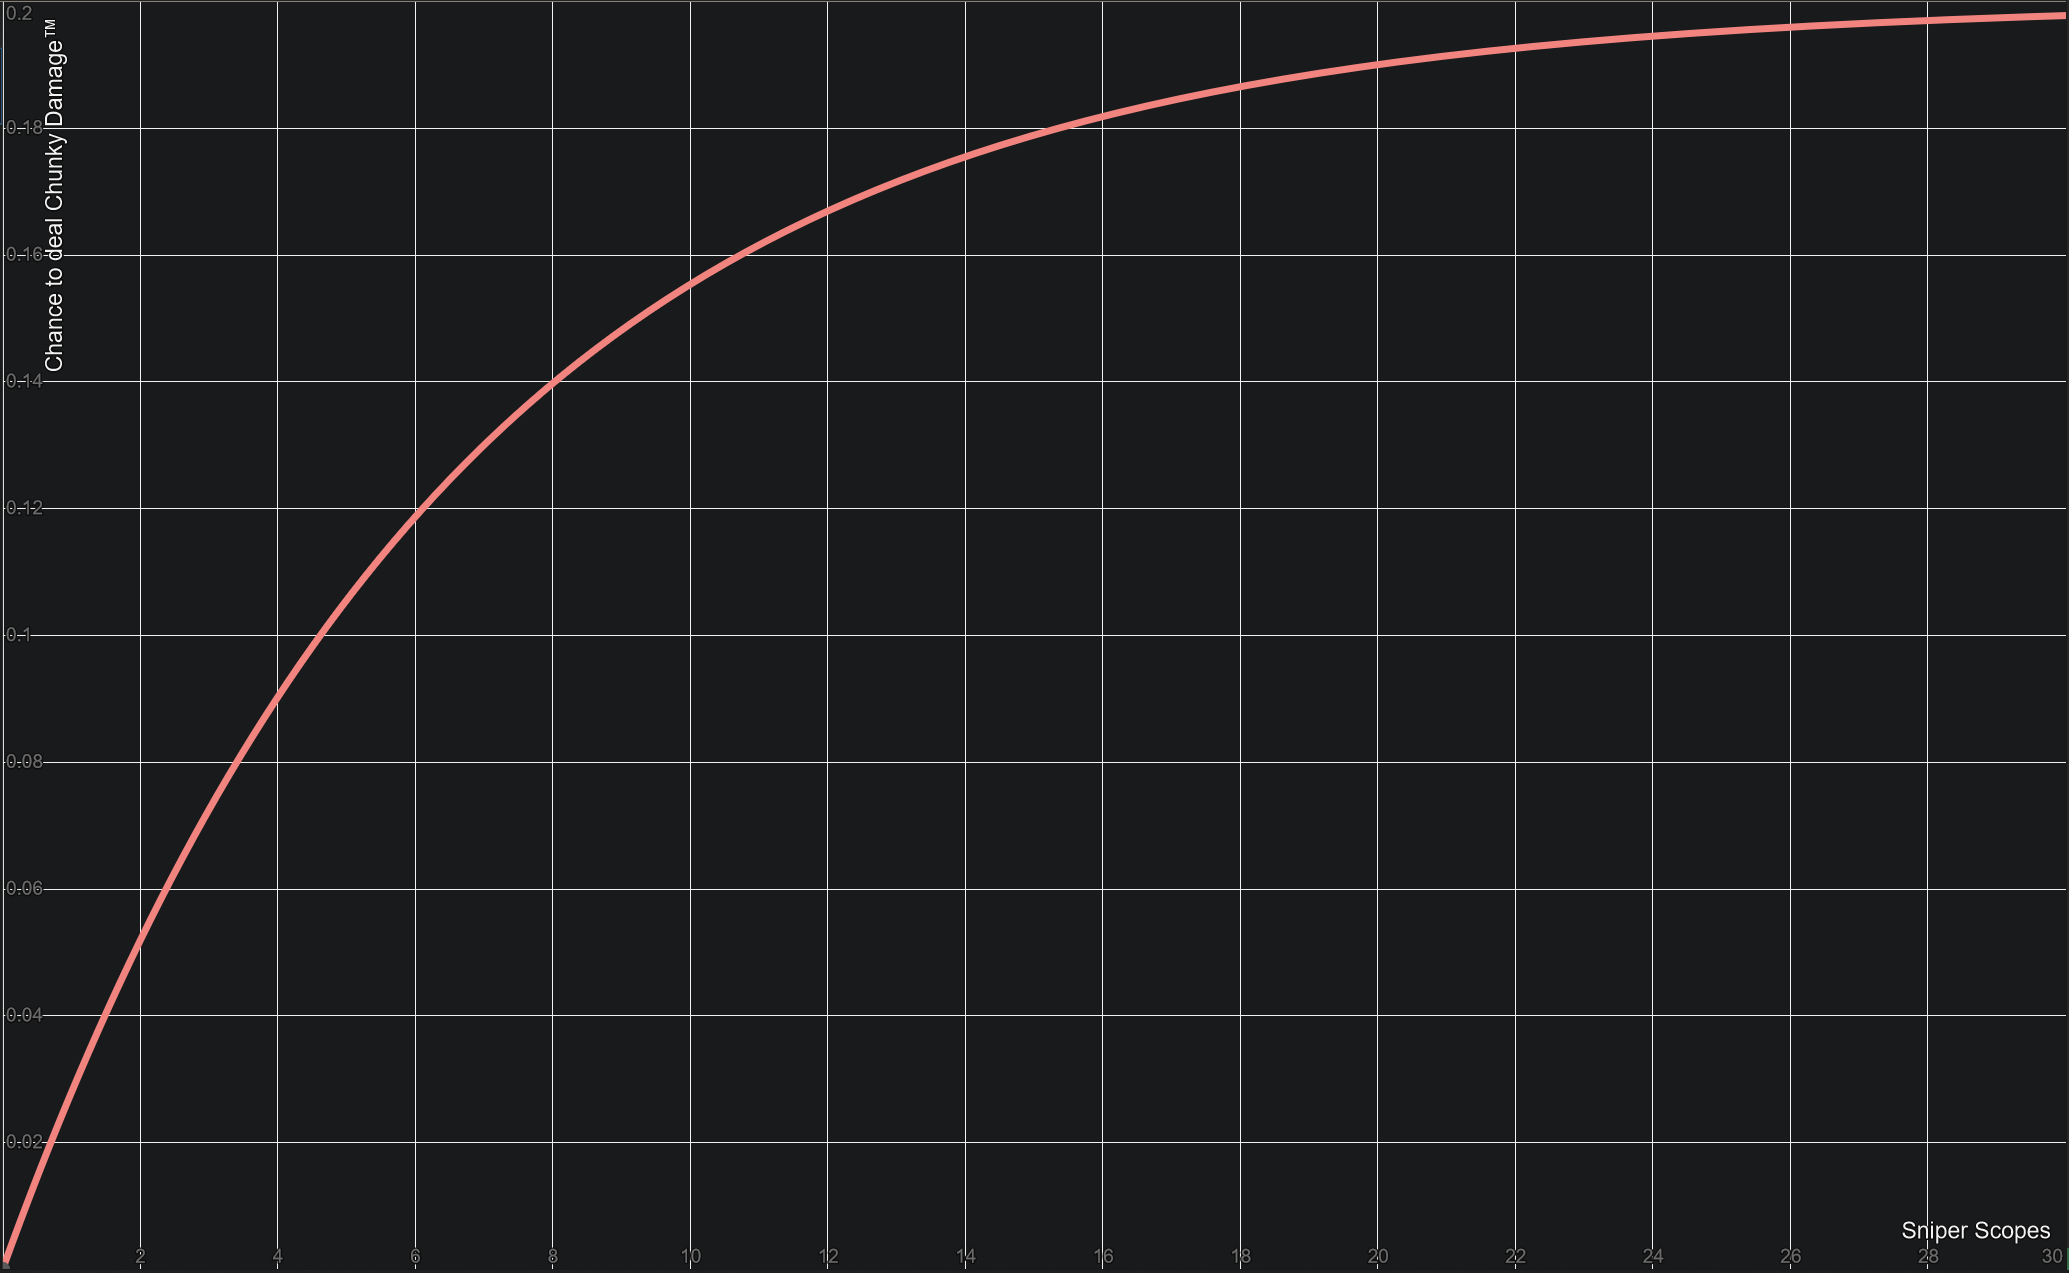
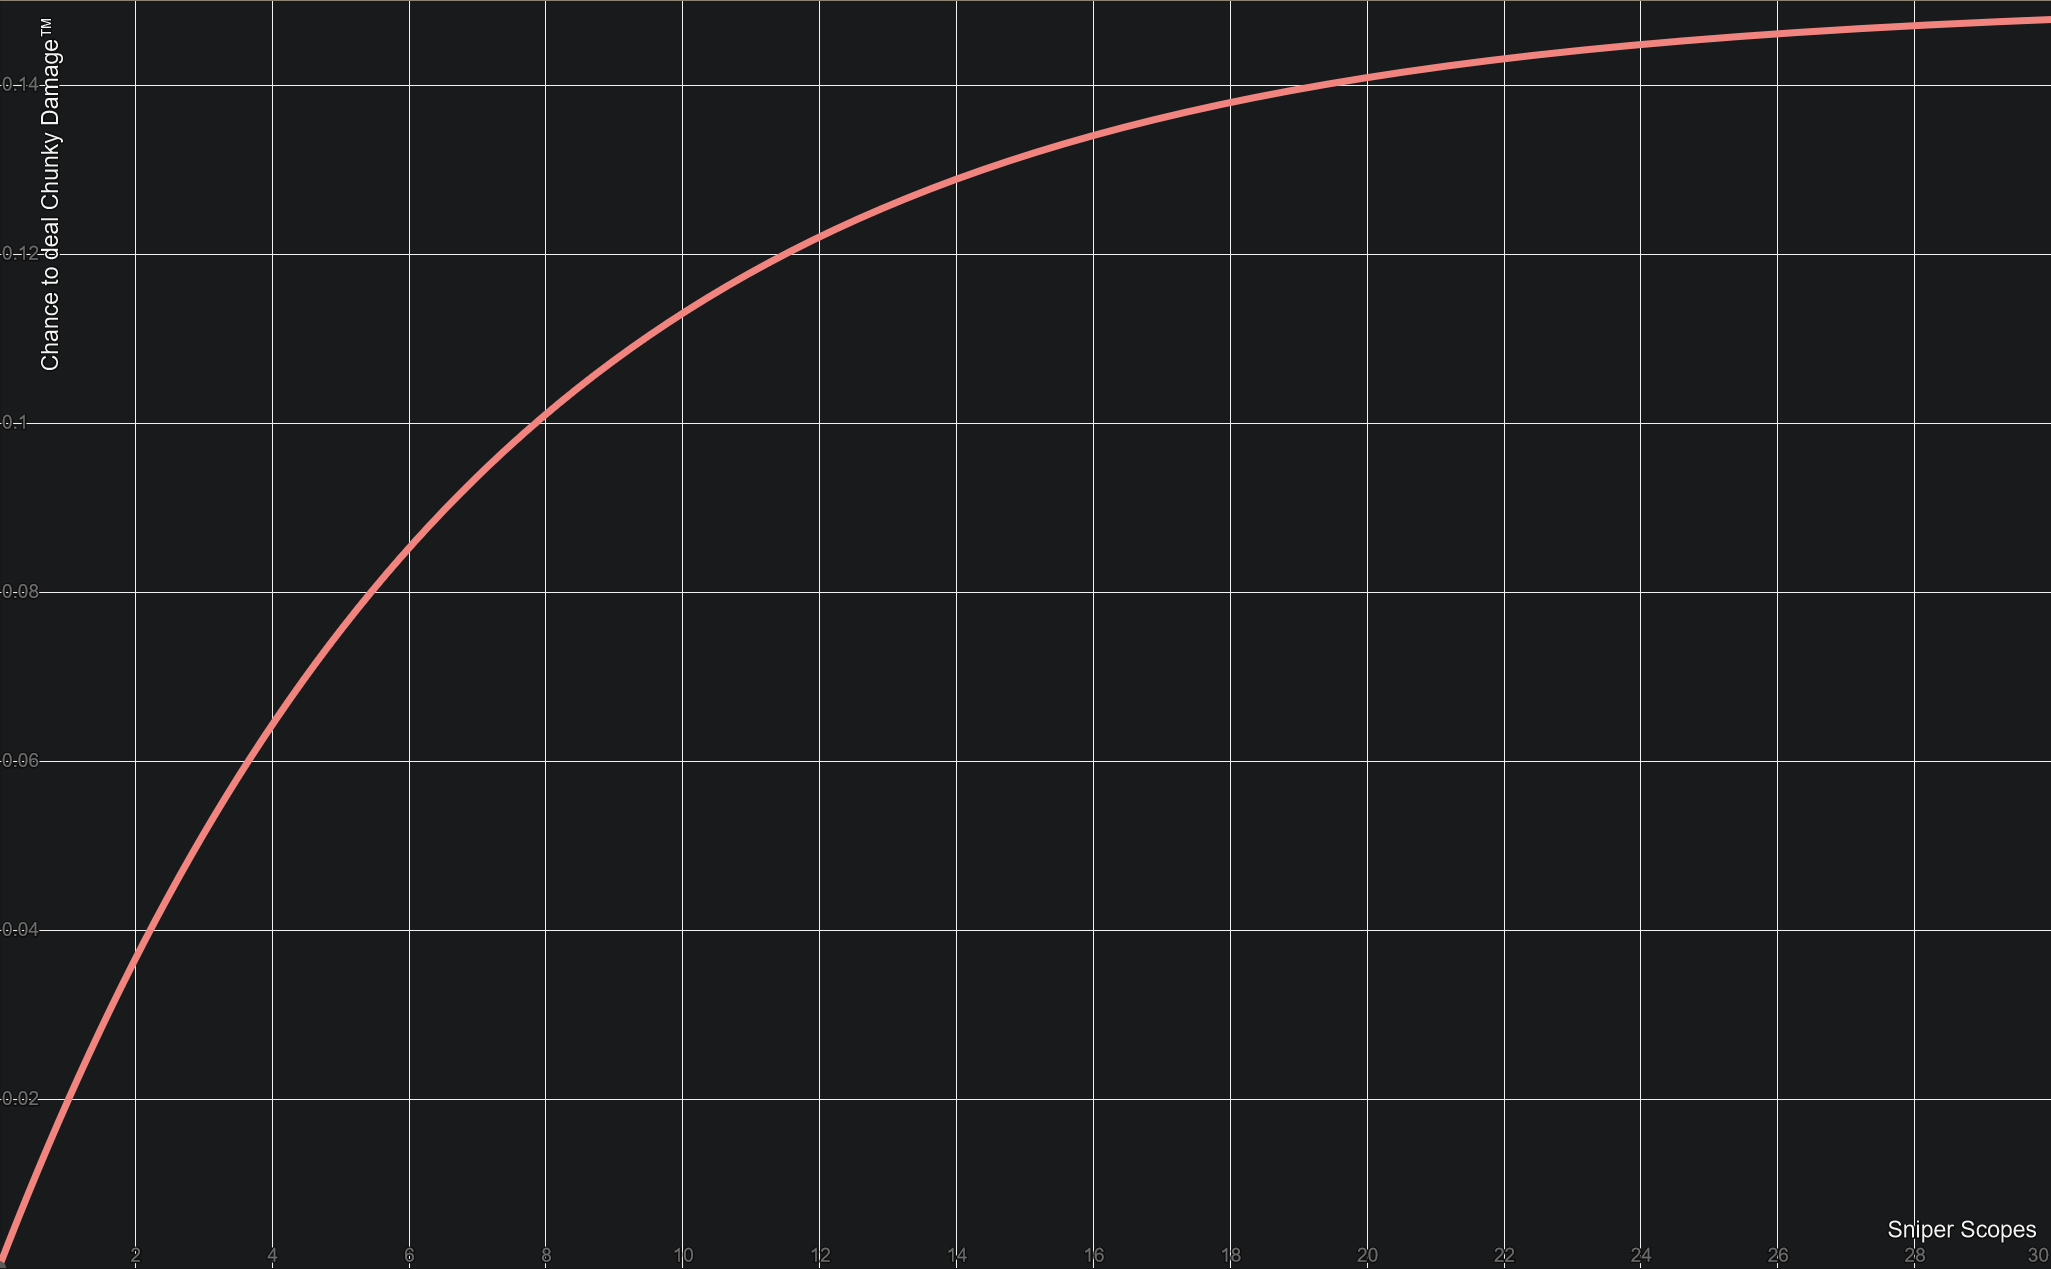
update powerup descriptions

diff --git a/docs/Data.md b/docs/Data.md
@@ -3458,7 +3458,7 @@ Every blue pill you have gives you +10 shield. There is no limit to this, other 
 <details>
 <summary> Boring nerd details </summary>
 
-Broccoli gives you passive health regen over time. It does not consume any hunger, though it does not work when you have 0 hunger. It is linear, and every broccoli gives you +0.25 health regen per second. Implementation regenerates health every frame, multiplied by `Time.deltaTime`.
+Broccoli gives you passive health regen over time. It does not consume any hunger, though it does not work when you have 0 hunger. It is linear, and every broccoli gives you +0.05 health regen per second. Implementation regenerates health every frame, multiplied by `Time.deltaTime`.
 
 </details>
 
@@ -4097,7 +4097,7 @@ Dani's Milk adds to your total armor count, which is like wearing armor, but wit
 <details>
 <summary> Boring nerd details </summary>
 
-Every time you get a kill, you get additional hp. Specifically, the amount of Dracula powerups you have is how much hp you gain. Each dracula also caps out at 50 additional hp. Every time you get a Dracula, you need to kill 50 mobs to reach the limit.
+Every time you get a kill, you get additional hp. Specifically, the amount of Dracula powerups you have is how much hp you gain. Each dracula also caps out at 40 additional hp. Every time you get a Dracula, you need to kill 40 mobs to reach the limit.
 
 </details>
 
@@ -4548,7 +4548,7 @@ Here's how likely you are for the first few amounts of powerups you can get:
 
 Each sniper scope you collect gives you a higher chance to deal more damage.
 
-The more sniper scopes you have, the higher chance you have to deal additional damage from it. This caps out at 0.2 (20%) and has a scale speed of 0.15. Here's a graph of the chance to deal additonal damage:
+The more sniper scopes you have, the higher chance you have to deal additional damage from it. This caps out at 0.15 (15%) and has a scale speed of 0.14. Here's a graph of the chance to deal additonal damage:
 [![][Sniper-Scope-chance-image]][Sniper-Scope-chance-link]
 
 If you're lucky and get the additional damage, the actual amount of damage you deal is multiplied by up to 50x its original value. That function has a scale speed of 0.25, and here's the graph for that:
@@ -4560,46 +4560,51 @@ If you're lucky and get the additional damage, the actual amount of damage you d
 And here is a precalculated list of the numbers for the first couple sniper scopes, if you'd rather have the current stats of your character than a graph of all of them:
 
 0. 0% chance to deal 0x damage
-1. 2.8% chance to deal 11.1x damage
-2. 5.2% chance to deal 19.7x damage
-3. 7.2% chance to deal 26.4x damage
-4. 9% chance to deal 31.6x damage
-5. 10.6% chance to deal 35.7x damage
-6. 11.9% chance to deal 38.8x damage
-7. 13% chance to deal 41.3x damage
-8. 14% chance to deal 43.2x damage
-9. 14.8% chance to deal 44.7x damage
-10. 15.5% chance to deal 45.9x damage
-11. 16.2% chance to deal 46.8x damage
-12. 16.7% chance to deal 47.5x damage
-13. 17.2% chance to deal 48.1x damage
-14. 17.6% chance to deal 48.5x damage
-15. 17.9% chance to deal 48.8x damage
-16. 18.2% chance to deal 49.1x damage
-17. 18.4% chance to deal 49.3x damage
-18. 18.7% chance to deal 49.4x damage
-19. 18.8% chance to deal 49.6x damage
-20. 19% chance to deal 49.7x damage
-21. 19.1% chance to deal 49.7x damage
-22. 19.3% chance to deal 49.8x damage
-23. 19.4% chance to deal 49.8x damage
-24. 19.5% chance to deal 49.9x damage
-25. 19.5% chance to deal 49.9x damage
-26. 19.6% chance to deal 49.9x damage
-27. 19.7% chance to deal 49.9x damage
-28. 19.7% chance to deal 50x damage
-29. 19.7% chance to deal 50x damage
-30. 19.8% chance to deal 50x damage
-31. 19.8% chance to deal 50x damage
-32. 19.8% chance to deal 50x damage
-33. 19.9% chance to deal 50x damage
-34. 19.9% chance to deal 50x damage
-35. 19.9% chance to deal 50x damage
-36. 19.9% chance to deal 50x damage
-37. 19.9% chance to deal 50x damage
-38. 19.9% chance to deal 50x damage
-39. 19.9% chance to deal 50x damage
-40. 20% chance to deal 50x damage
+1. 2% chance to deal 11.1x damage
+2. 3.7% chance to deal 19.7x damage
+3. 5.1% chance to deal 26.4x damage
+4. 6.4% chance to deal 31.6x damage
+5. 7.6% chance to deal 35.7x damage
+6. 8.5% chance to deal 38.8x damage
+7. 9.4% chance to deal 41.3x damage
+8. 10.1% chance to deal 43.2x damage
+9. 10.7% chance to deal 44.7x damage
+10. 11.3% chance to deal 45.9x damage
+11. 11.8% chance to deal 46.8x damage
+12. 12.2% chance to deal 47.5x damage
+13. 12.6% chance to deal 48.1x damage
+14. 12.9% chance to deal 48.5x damage
+15. 13.2% chance to deal 48.8x damage
+16. 13.4% chance to deal 49.1x damage
+17. 13.6% chance to deal 49.3x damage
+18. 13.8% chance to deal 49.4x damage
+19. 14% chance to deal 49.6x damage
+20. 14.1% chance to deal 49.7x damage
+21. 14.2% chance to deal 49.7x damage
+22. 14.3% chance to deal 49.8x damage
+23. 14.4% chance to deal 49.8x damage
+24. 14.5% chance to deal 49.9x damage
+25. 14.5% chance to deal 49.9x damage
+26. 14.6% chance to deal 49.9x damage
+27. 14.7% chance to deal 49.9x damage
+28. 14.7% chance to deal 50x damage
+29. 14.7% chance to deal 50x damage
+30. 14.8% chance to deal 50x damage
+31. 14.8% chance to deal 50x damage
+32. 14.8% chance to deal 50x damage
+33. 14.9% chance to deal 50x damage
+34. 14.9% chance to deal 50x damage
+35. 14.9% chance to deal 50x damage
+36. 14.9% chance to deal 50x damage
+37. 14.9% chance to deal 50x damage
+38. 14.9% chance to deal 50x damage
+39. 14.9% chance to deal 50x damage
+40. 14.9% chance to deal 50x damage
+41. 15% chance to deal 50x damage
+42. 15% chance to deal 50x damage
+43. 15% chance to deal 50x damage
+44. 15% chance to deal 50x damage
+45. 15% chance to deal 50x damage
 
 </details>
 
@@ -4864,7 +4869,7 @@ Mobs have a base health. Depending on how the mob spawns, its real max health wi
 [Knuts-Hammer-damage-link]: https://www.desmos.com/calculator/eyrumd2q4k
 [Sniper-Scope]: ../Assets/Texture2D/SniperScope.png
 [Sniper-Scope-chance-image]: PowerupStats/Images/sniper_chance.png
-[Sniper-Scope-chance-link]: https://www.desmos.com/calculator/vivzwiuqzm
+[Sniper-Scope-chance-link]: https://www.desmos.com/calculator/pbw4za9dwc
 [Sniper-Scope-damage-image]: PowerupStats/Images/sniper_damage.png
 [Sniper-Scope-damage-link]: https://www.desmos.com/calculator/akocvnn74b
 [Wings-of-Glory]: ../Assets/Texture2D/Wings.png

diff --git a/docs/PowerupStats/Sniper-Scope.md b/docs/PowerupStats/Sniper-Scope.md
@@ -1,6 +1,6 @@
 Each sniper scope you collect gives you a higher chance to deal more damage.
 
-The more sniper scopes you have, the higher chance you have to deal additional damage from it. This caps out at 0.2 (20%) and has a scale speed of 0.15. Here's a graph of the chance to deal additonal damage:
+The more sniper scopes you have, the higher chance you have to deal additional damage from it. This caps out at 0.15 (15%) and has a scale speed of 0.14. Here's a graph of the chance to deal additonal damage:
 [![][chance-image]][chance-link]
 
 If you're lucky and get the additional damage, the actual amount of damage you deal is multiplied by up to 50x its original value. That function has a scale speed of 0.25, and here's the graph for that:
@@ -11,9 +11,9 @@ If you're lucky and get the additional damage, the actual amount of damage you d
 
 And here is a precalculated list of the numbers for the first couple sniper scopes, if you'd rather have the current stats of your character than a graph of all of them:
 
-cum: `${n(20, calc(0.15, 20))}% chance to deal ${n(50, calc(0.25, 50))}x damage`
+cum: `${n(15, calc(0.14, 15))}% chance to deal ${n(50, calc(0.25, 50))}x damage`
 
 [chance-image]: Images/sniper_chance.png
-[chance-link]: https://www.desmos.com/calculator/vivzwiuqzm
+[chance-link]: https://www.desmos.com/calculator/pbw4za9dwc
 [damage-image]: Images/sniper_damage.png
 [damage-link]: https://www.desmos.com/calculator/akocvnn74b

diff --git a/docs/PowerupStats/Broccoli.md b/docs/PowerupStats/Broccoli.md
@@ -1,1 +1,1 @@
-Broccoli gives you passive health regen over time. It does not consume any hunger, though it does not work when you have 0 hunger. It is linear, and every broccoli gives you +0.25 health regen per second. Implementation regenerates health every frame, multiplied by `Time.deltaTime`.
+Broccoli gives you passive health regen over time. It does not consume any hunger, though it does not work when you have 0 hunger. It is linear, and every broccoli gives you +0.05 health regen per second. Implementation regenerates health every frame, multiplied by `Time.deltaTime`.

diff --git a/docs/PowerupStats/Dracula.md b/docs/PowerupStats/Dracula.md
@@ -1,1 +1,1 @@
-Every time you get a kill, you get additional hp. Specifically, the amount of Dracula powerups you have is how much hp you gain. Each dracula also caps out at 50 additional hp. Every time you get a Dracula, you need to kill 50 mobs to reach the limit.
+Every time you get a kill, you get additional hp. Specifically, the amount of Dracula powerups you have is how much hp you gain. Each dracula also caps out at 40 additional hp. Every time you get a Dracula, you need to kill 40 mobs to reach the limit.
